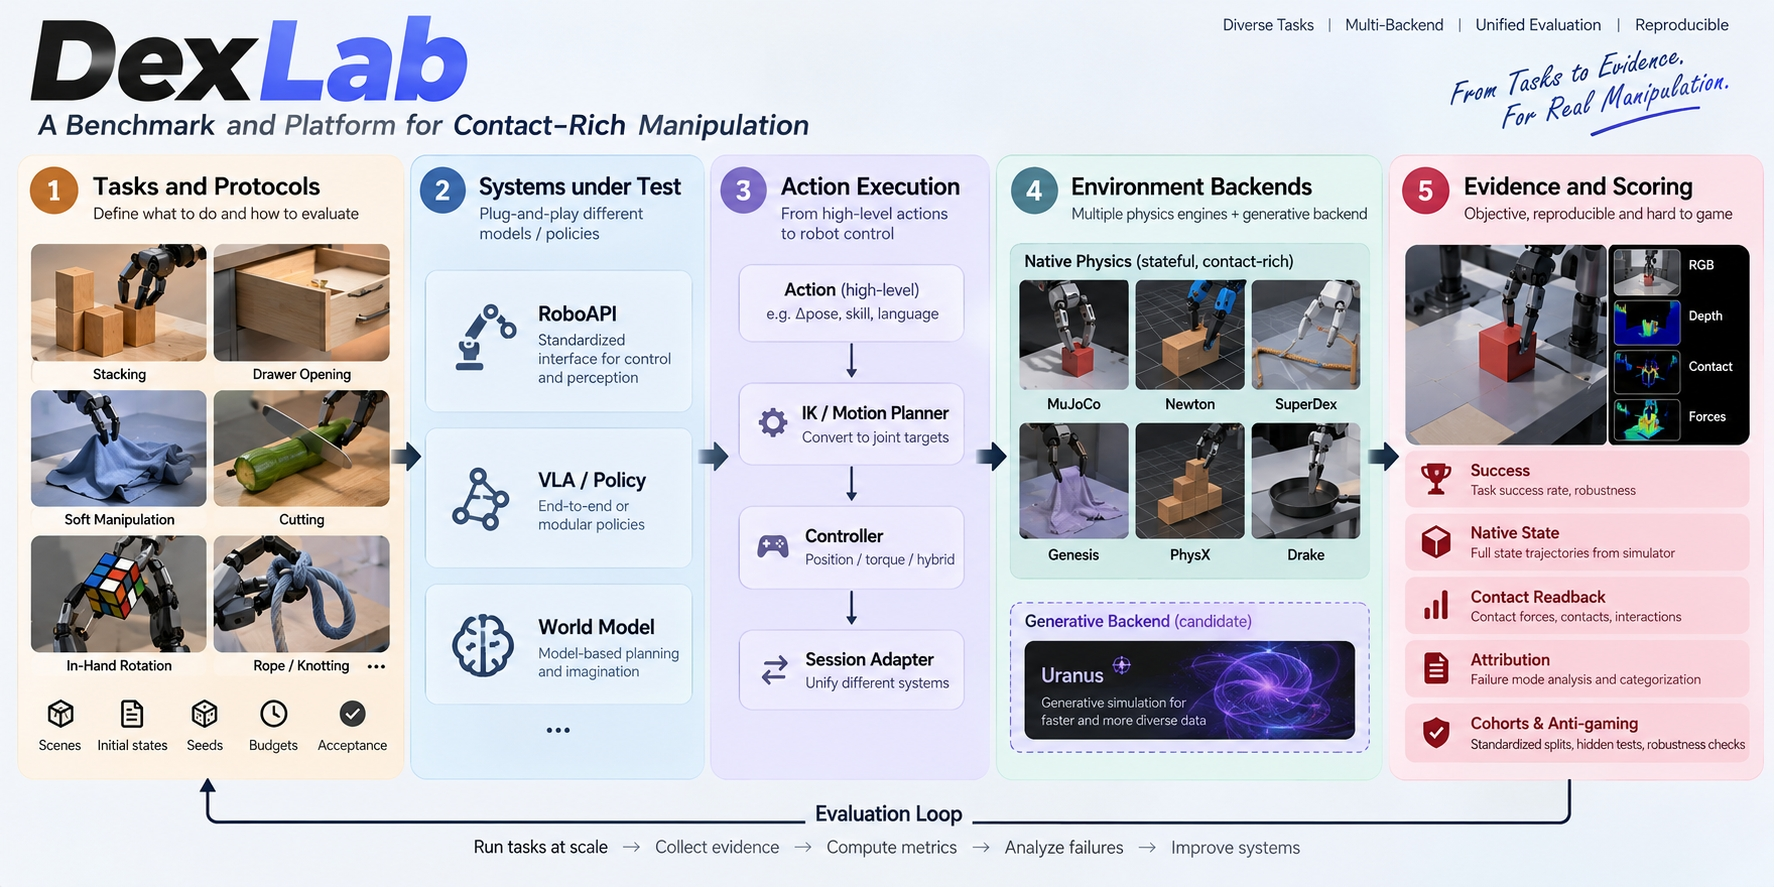
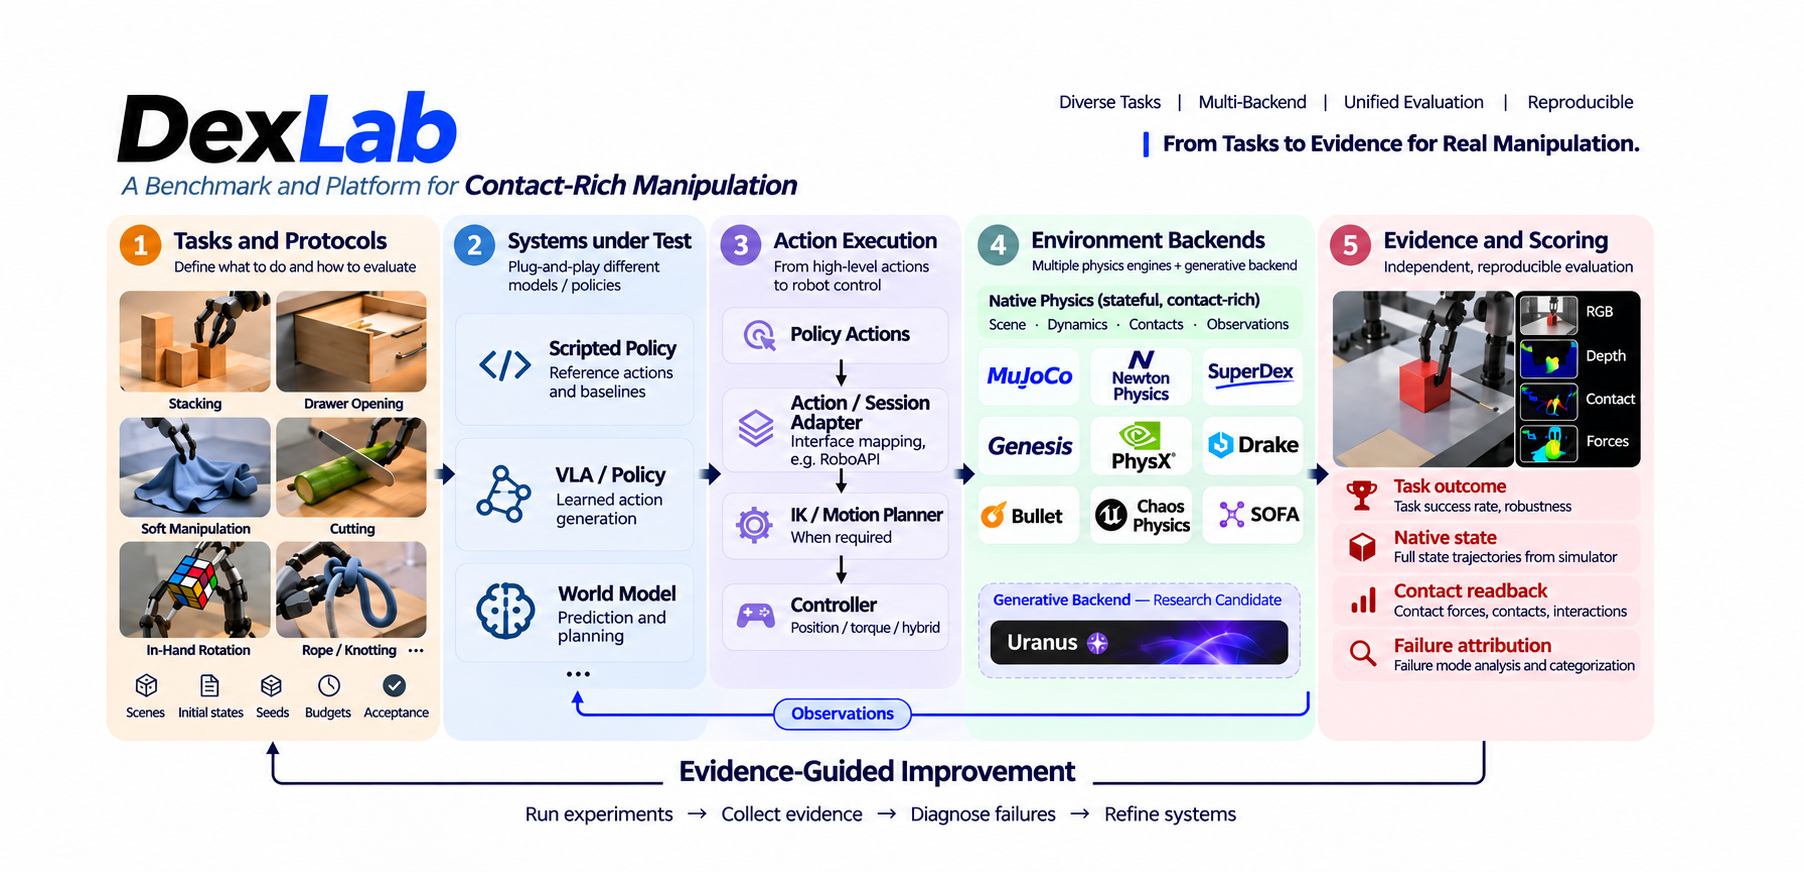
docs: replace the DexLab architecture artwork

diff --git a/docs/site/_static/research-home.css b/docs/site/_static/research-home.css
@@ -191,7 +191,7 @@ main > section > h1 {
   margin: 0 0 clamp(32px, 5vw, 56px);
 }
 
-.home-overview a {
+.home-overview > a {
   display: block;
 }
 

diff --git a/docs/site/en/index.md b/docs/site/en/index.md
@@ -12,9 +12,10 @@
     <a id="architecture-heading" href="../../zh-cn/latest/_static/images/dexlab-architecture.png" target="_blank" rel="noopener" aria-label="Open the original DexLab architecture image">
       <picture>
         <source srcset="../../zh-cn/latest/_static/images/dexlab-architecture.webp" type="image/webp">
-        <img src="../../zh-cn/latest/_static/images/dexlab-architecture.png" width="1774" height="887" loading="eager" decoding="async" alt="DexLab architecture, from tasks, systems under test, execution and simulation backends to evidence and scoring, with results feeding back into system improvements.">
+        <img src="../../zh-cn/latest/_static/images/dexlab-architecture.png" width="1804" height="872" loading="eager" decoding="async" alt="DexLab architecture, from tasks, systems under test, execution and simulation backends to evidence and scoring, with results feeding back into system improvements.">
       </picture>
     </a>
+    <figcaption>Platform architecture overview. <a href="coverage.html">See validation by task and engine.</a></figcaption>
   </figure>
 
   <div class="experiment-intro" data-home-reveal>

diff --git a/docs/site/zh/index.md b/docs/site/zh/index.md
@@ -12,9 +12,10 @@
     <a id="architecture-heading" href="_static/images/dexlab-architecture.png" target="_blank" rel="noopener" aria-label="打开 DexLab 架构图原图">
       <picture>
         <source srcset="_static/images/dexlab-architecture.webp" type="image/webp">
-        <img src="_static/images/dexlab-architecture.png" width="1774" height="887" loading="eager" decoding="async" alt="DexLab 架构，从任务、被测系统、动作执行和环境后端，到证据与评分，再用实验结果改进系统。">
+        <img src="_static/images/dexlab-architecture.png" width="1804" height="872" loading="eager" decoding="async" alt="DexLab 架构，从任务、被测系统、动作执行和环境后端，到证据与评分，再用实验结果改进系统。">
       </picture>
     </a>
+    <figcaption>平台架构示意。<a href="coverage.html">查看各任务和引擎的验证状态。</a></figcaption>
   </figure>
 
   <div class="experiment-intro" data-home-reveal>

diff --git a/README.md b/README.md
@@ -16,7 +16,7 @@ The improved simulation helps the Agent learn new Skills. With those Skills, the
   <a href="https://huangkiki.github.io/Dexlab/en/latest/index.html">
     <img src="docs/site/_static/images/dexlab-architecture.webp" width="100%" alt="DexLab architecture: tasks and protocols, systems under test, action execution, environment backends, and evidence and scoring">
   </a><br>
-  <sub>DexLab workflow: tasks and protocols → systems under test → action execution → environment backends → independent evidence and scoring.</sub>
+  <sub>DexLab platform architecture. <a href="https://huangkiki.github.io/Dexlab/en/latest/coverage.html">See validation by task and engine.</a></sub>
 </p>
 
 ## Selected experiments

diff --git a/README.zh-CN.md b/README.zh-CN.md
@@ -26,6 +26,8 @@
 
 任务与协议经过被测系统、动作执行和环境后端，最终进入独立证据与评分。观测和失败再返回技能与仿真，推动下一轮改进。
 
+[查看各任务和引擎的验证状态](https://huangkiki.github.io/Dexlab/zh-cn/latest/coverage.html)。
+
 ## 代表性实验
 
 <p align="center">
